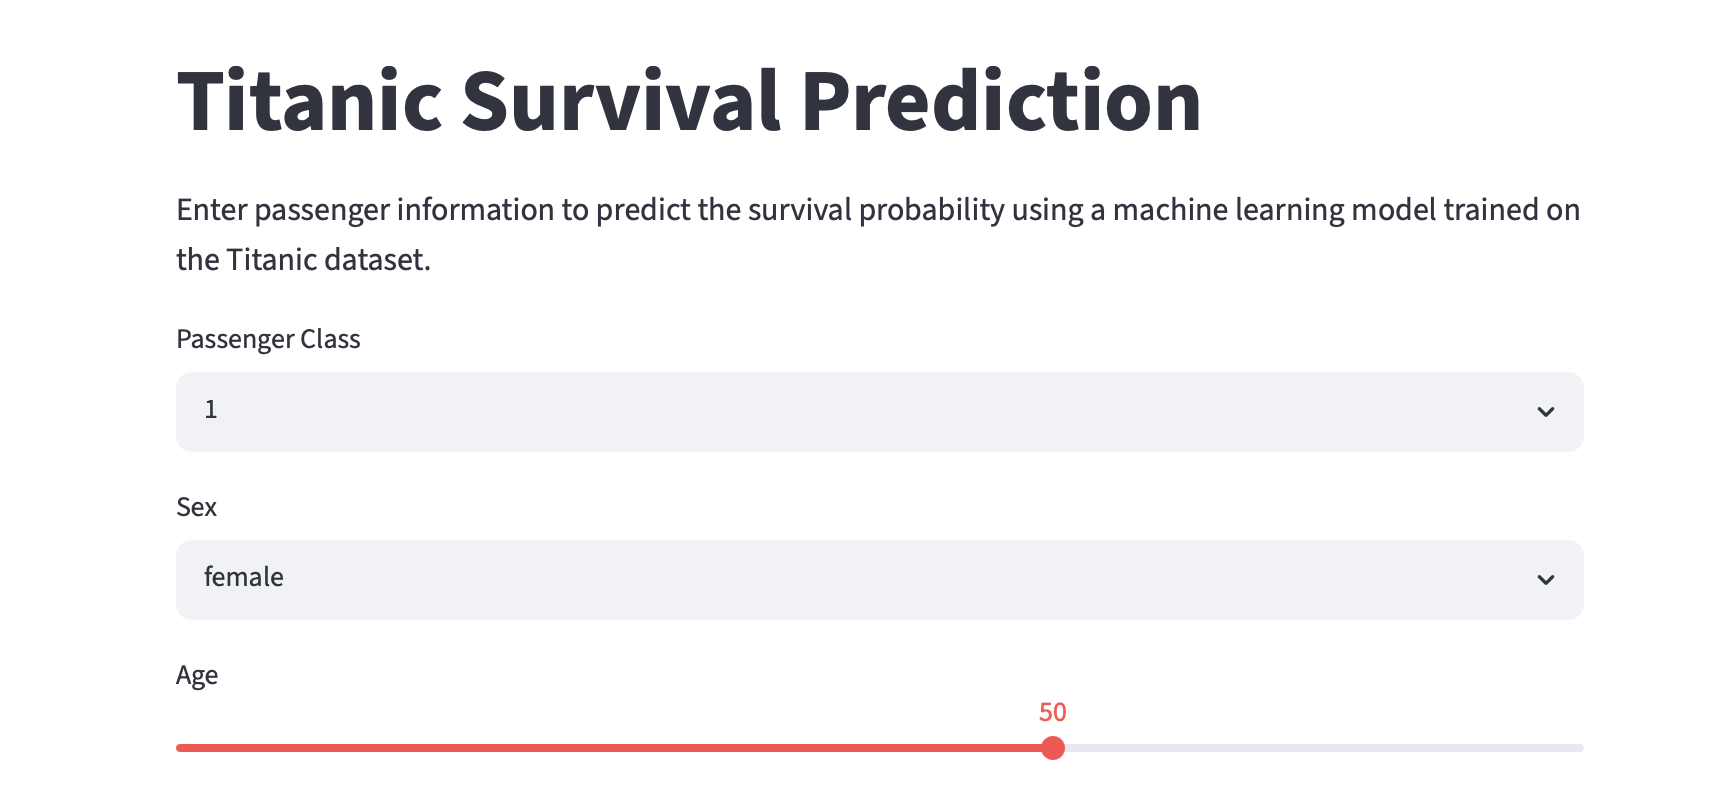
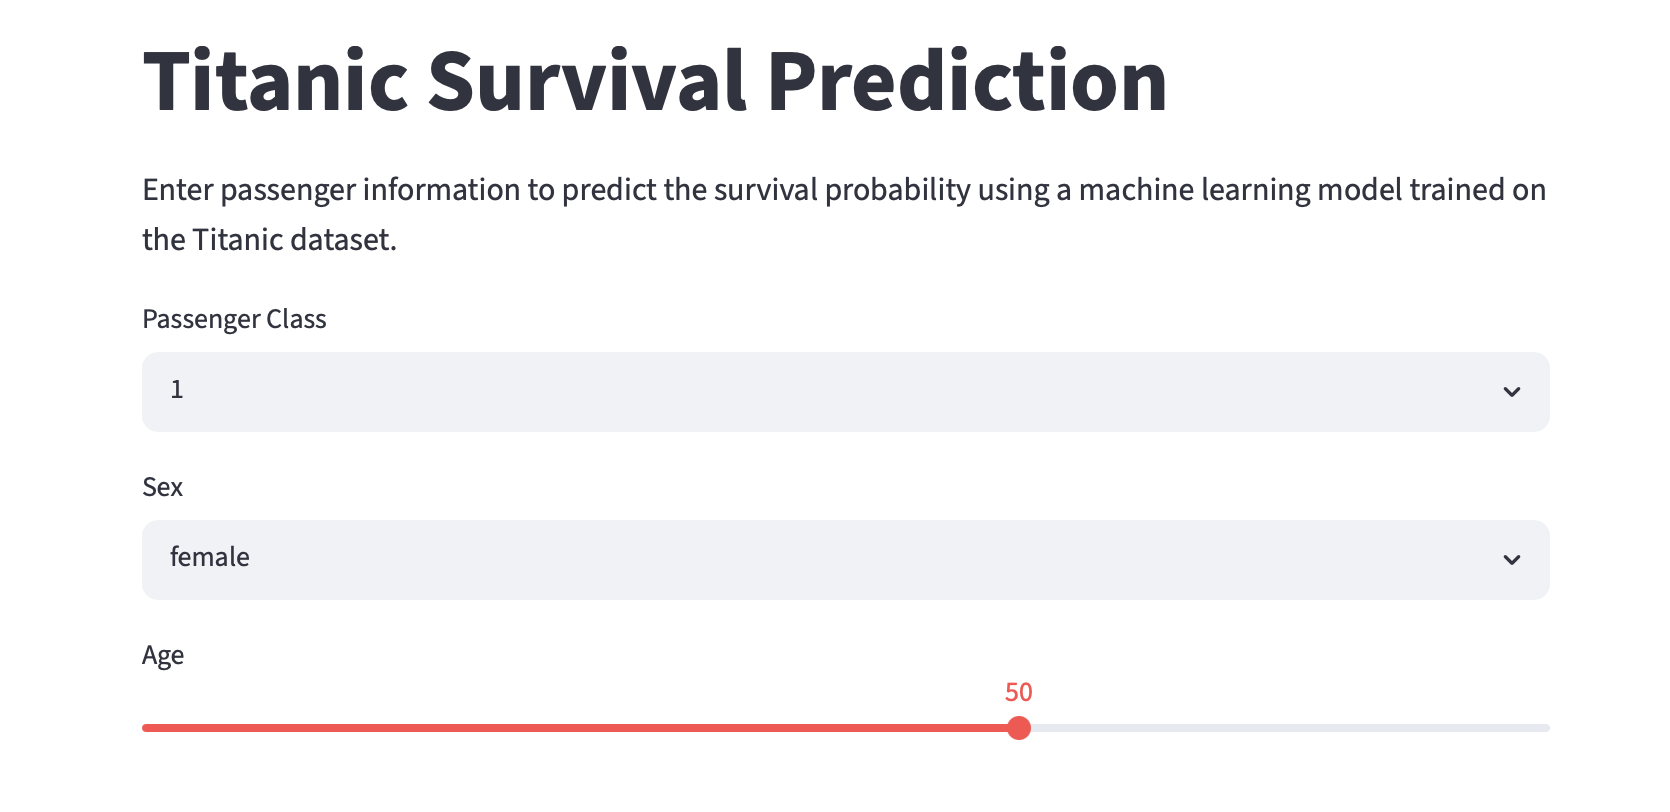
Add application screenshot

diff --git a/README.md b/README.md
@@ -8,7 +8,7 @@ https://titanic-survival-app-zzlvm5mih3zbsemrrgry3n.streamlit.app
 
 ## Application
 <p align="center">
-<img src="images/app.png" width="700">
+<img src="images/app_screenshot_01.png" width="700">
 </p>
 <p align="center">
 <img src="images/app_screenshot_02.png" width="700">